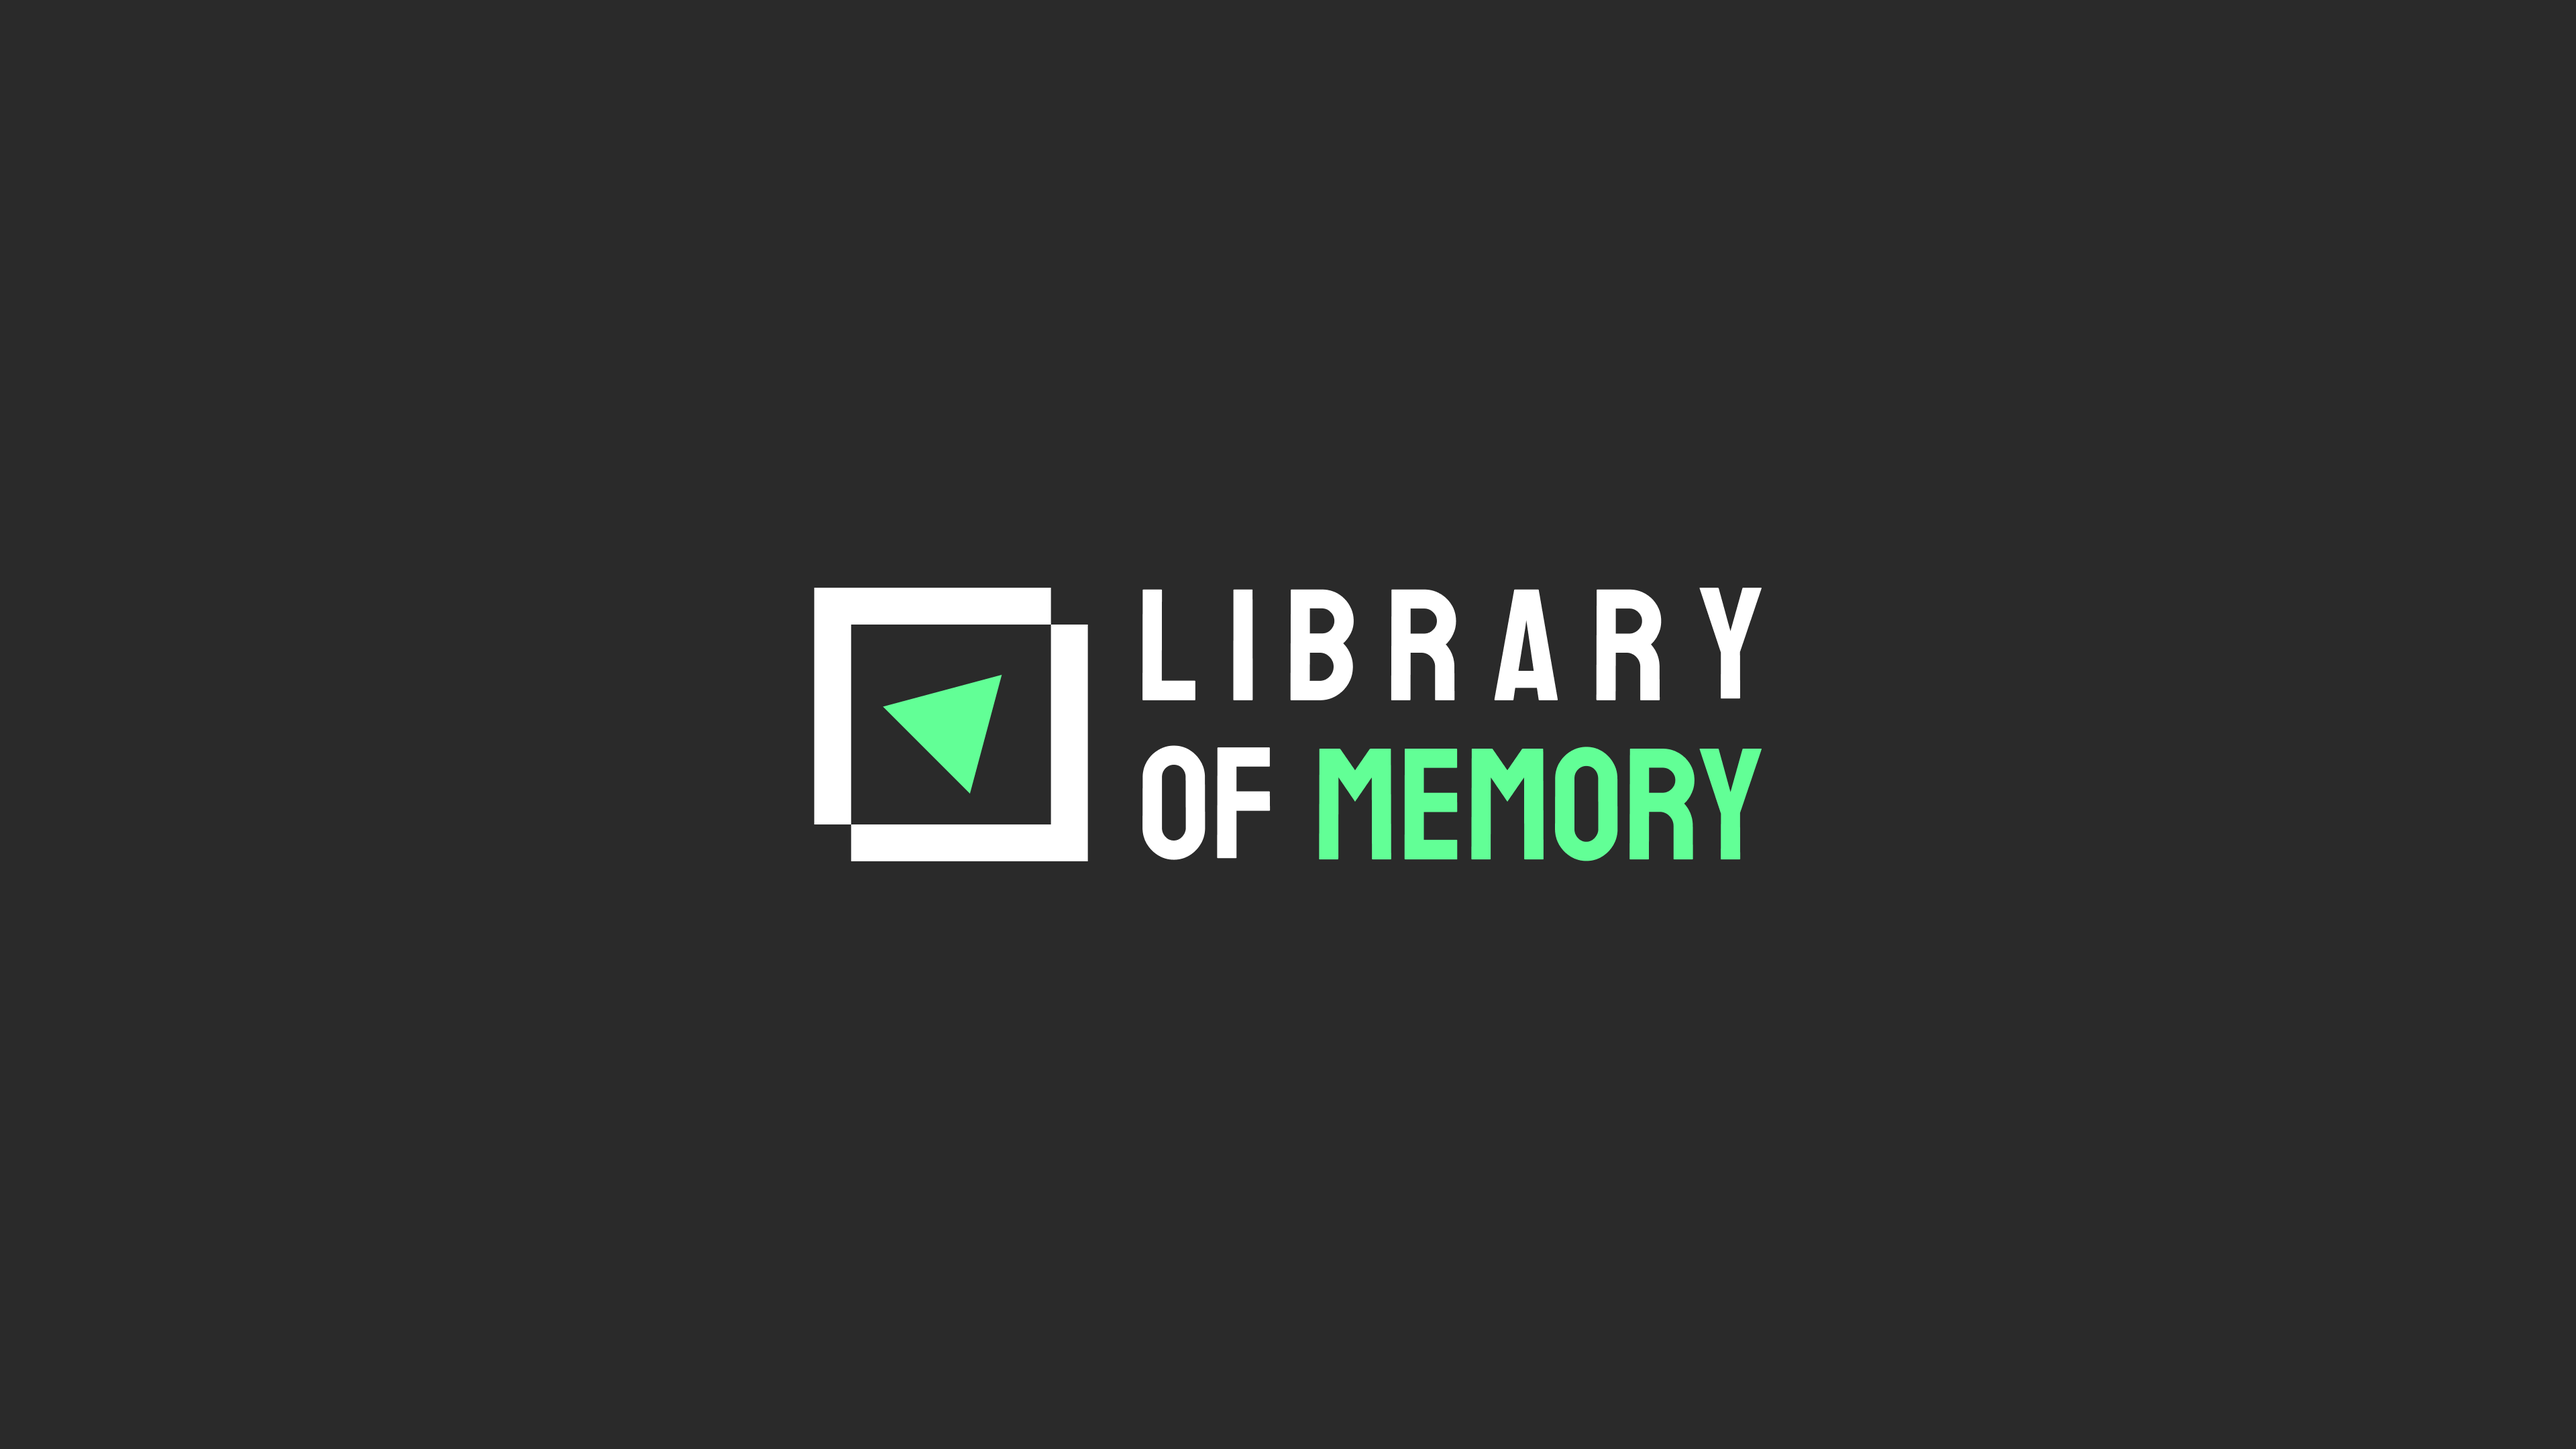
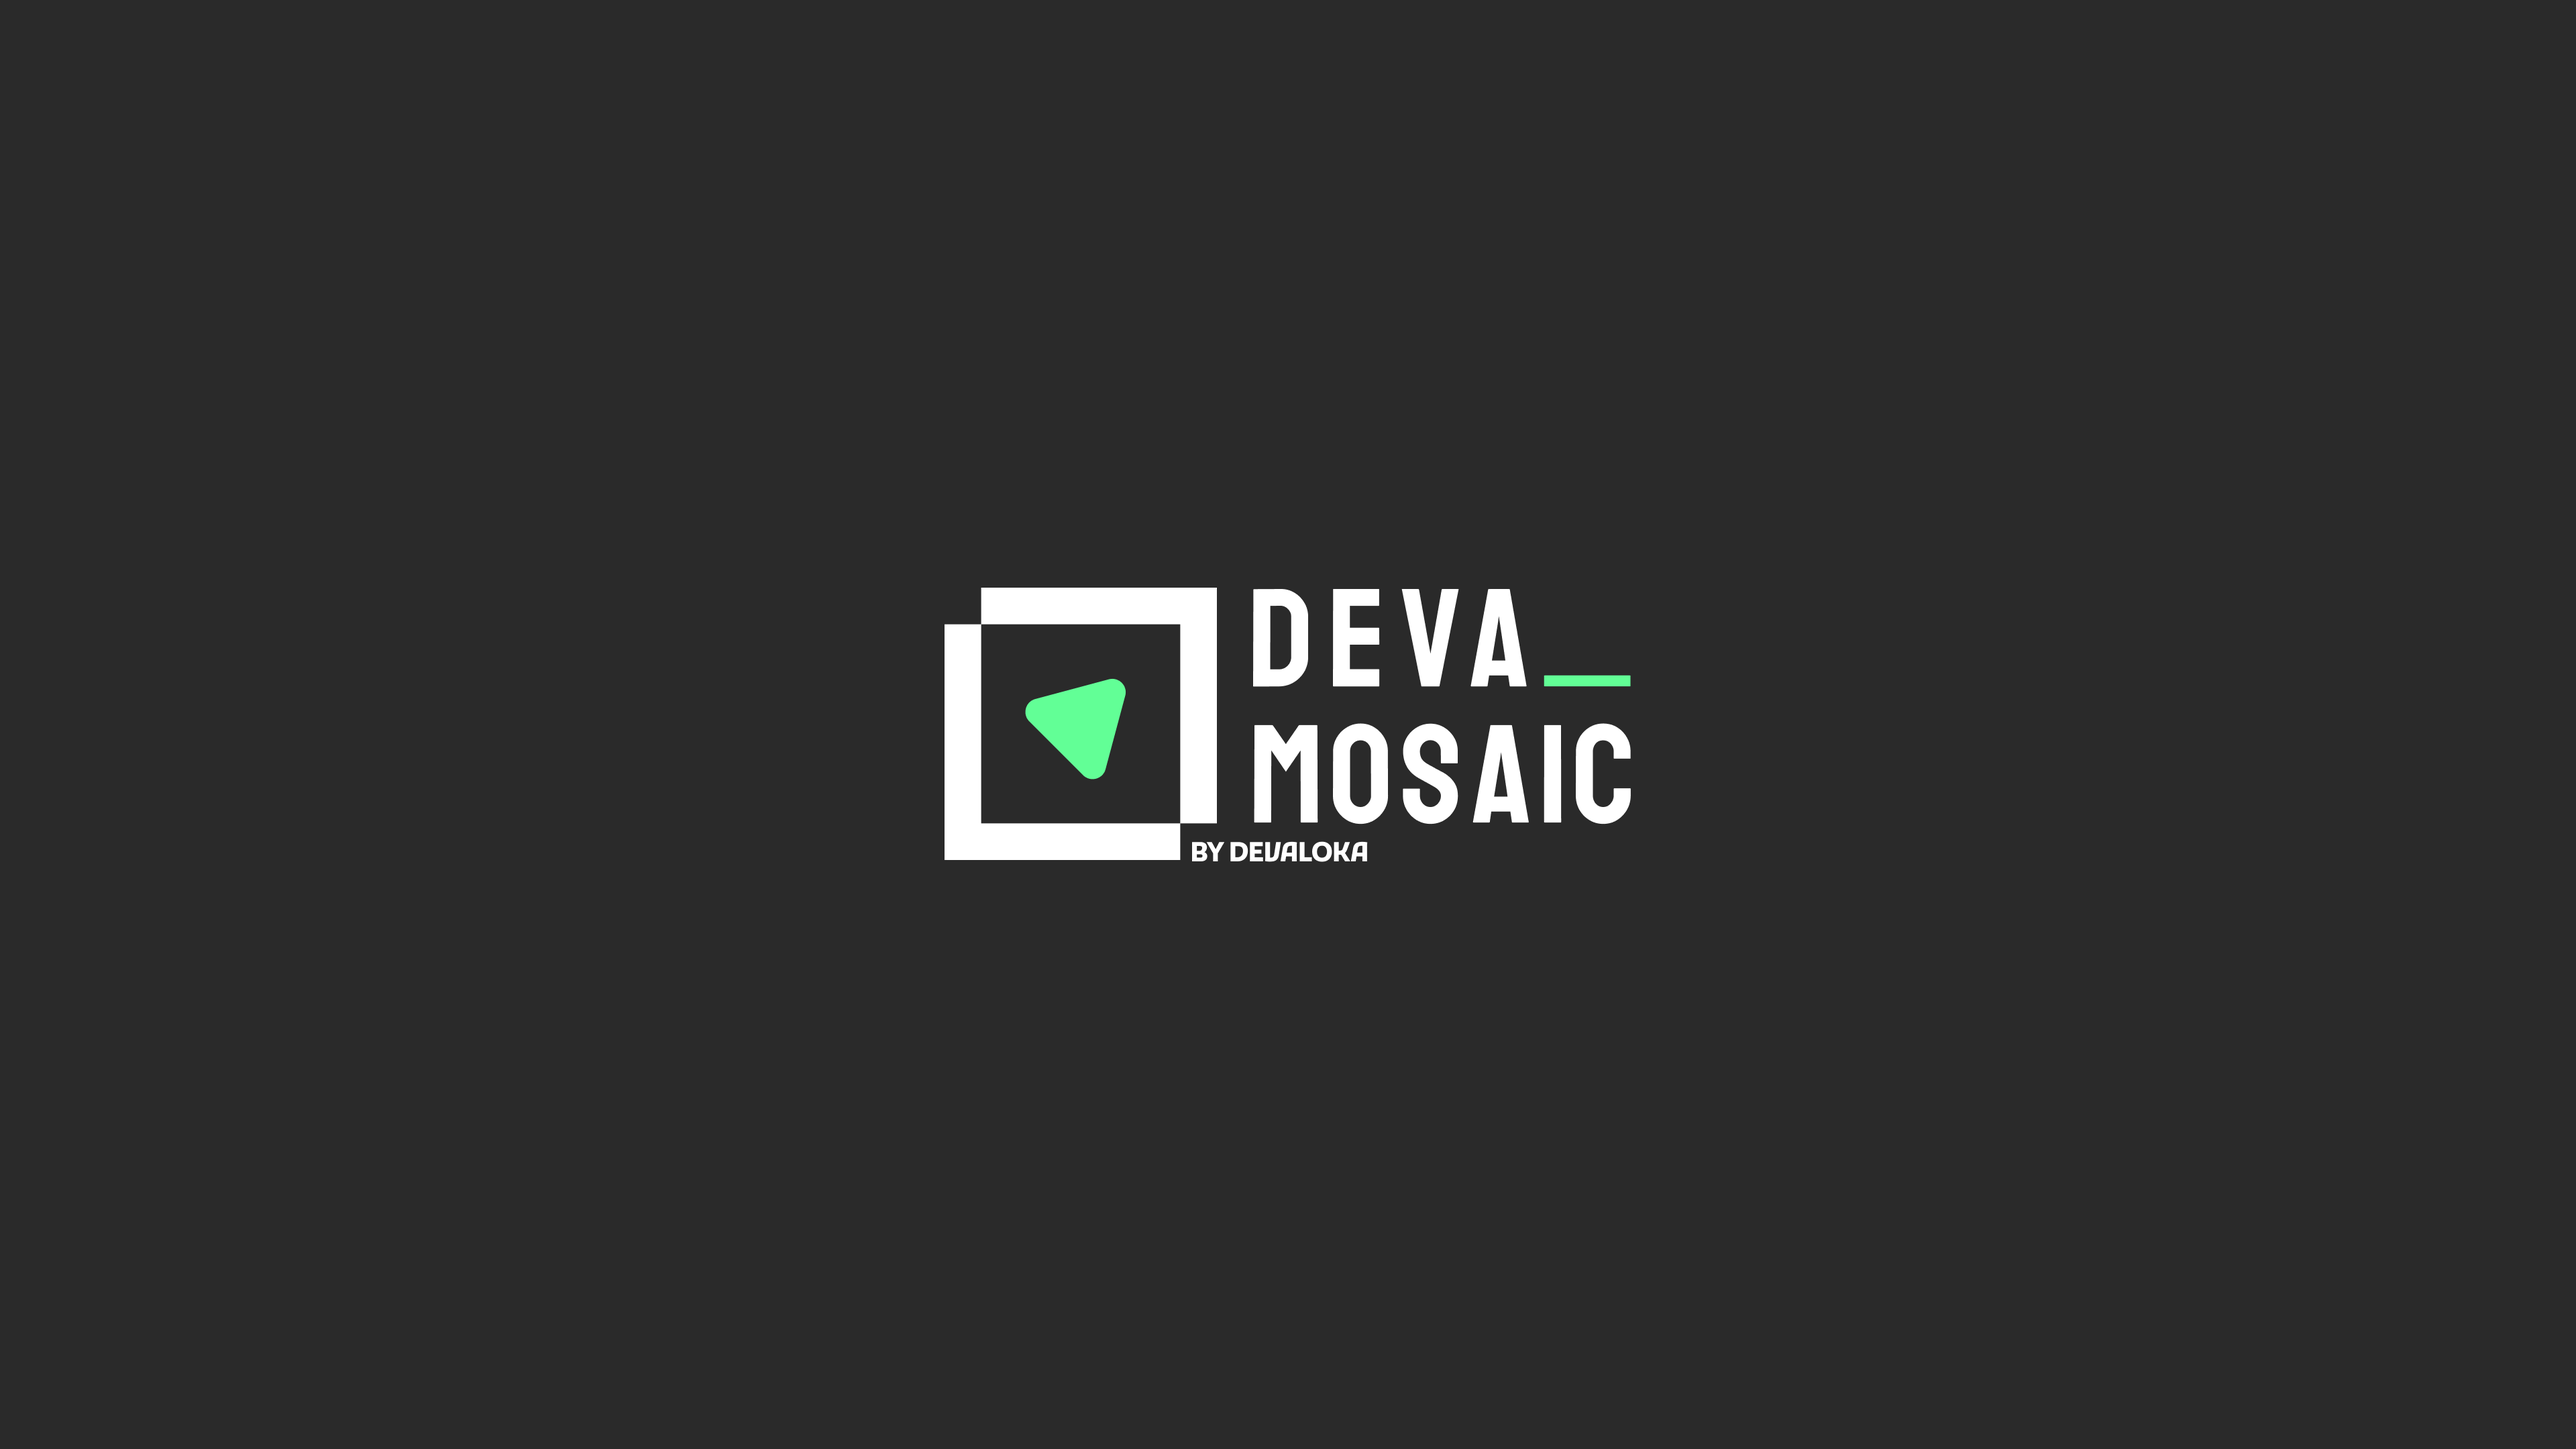
update: SEO

Changed region(s): [[0.3125, 0.4032, 0.6875, 0.6204]]

diff --git a/README.md b/README.md
@@ -1,8 +1,6 @@
 <p align="center">
-  <img src="https://static-00.iconduck.com/assets.00/pomegranate-emoji-119x128-stiunqhd.png">
+  <img src="./public/logo-text.svg" width="300">
 </p>
-
-# Deva-mosaic
 
 A divine space where memories and past moments are pieced together like fragments, forming a vivid, eternal tapestry. 
 
